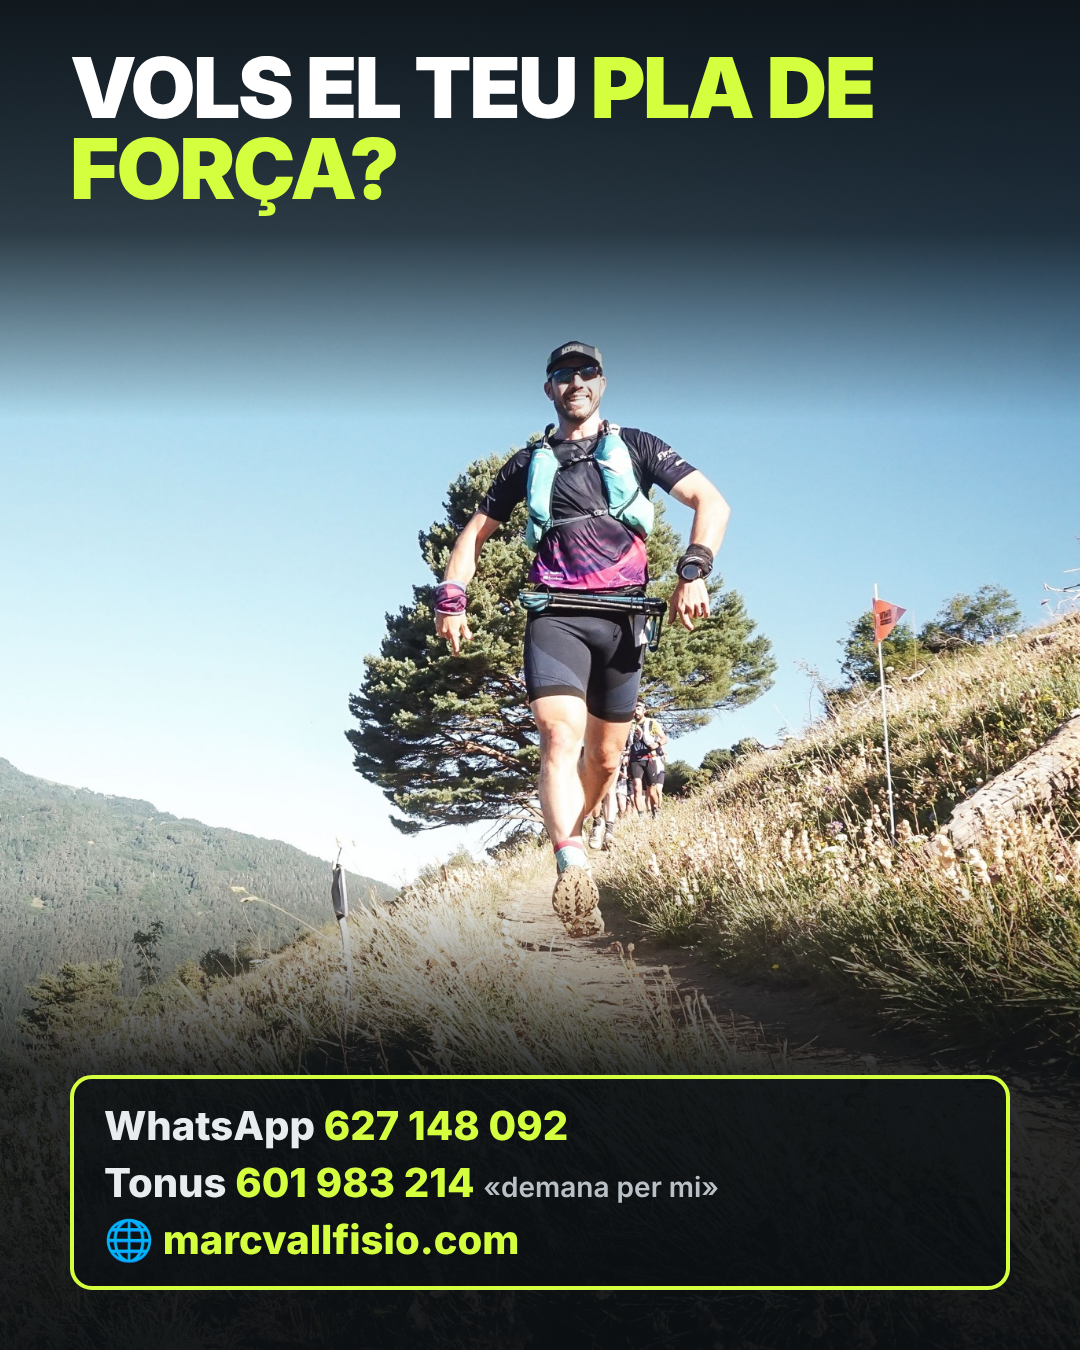
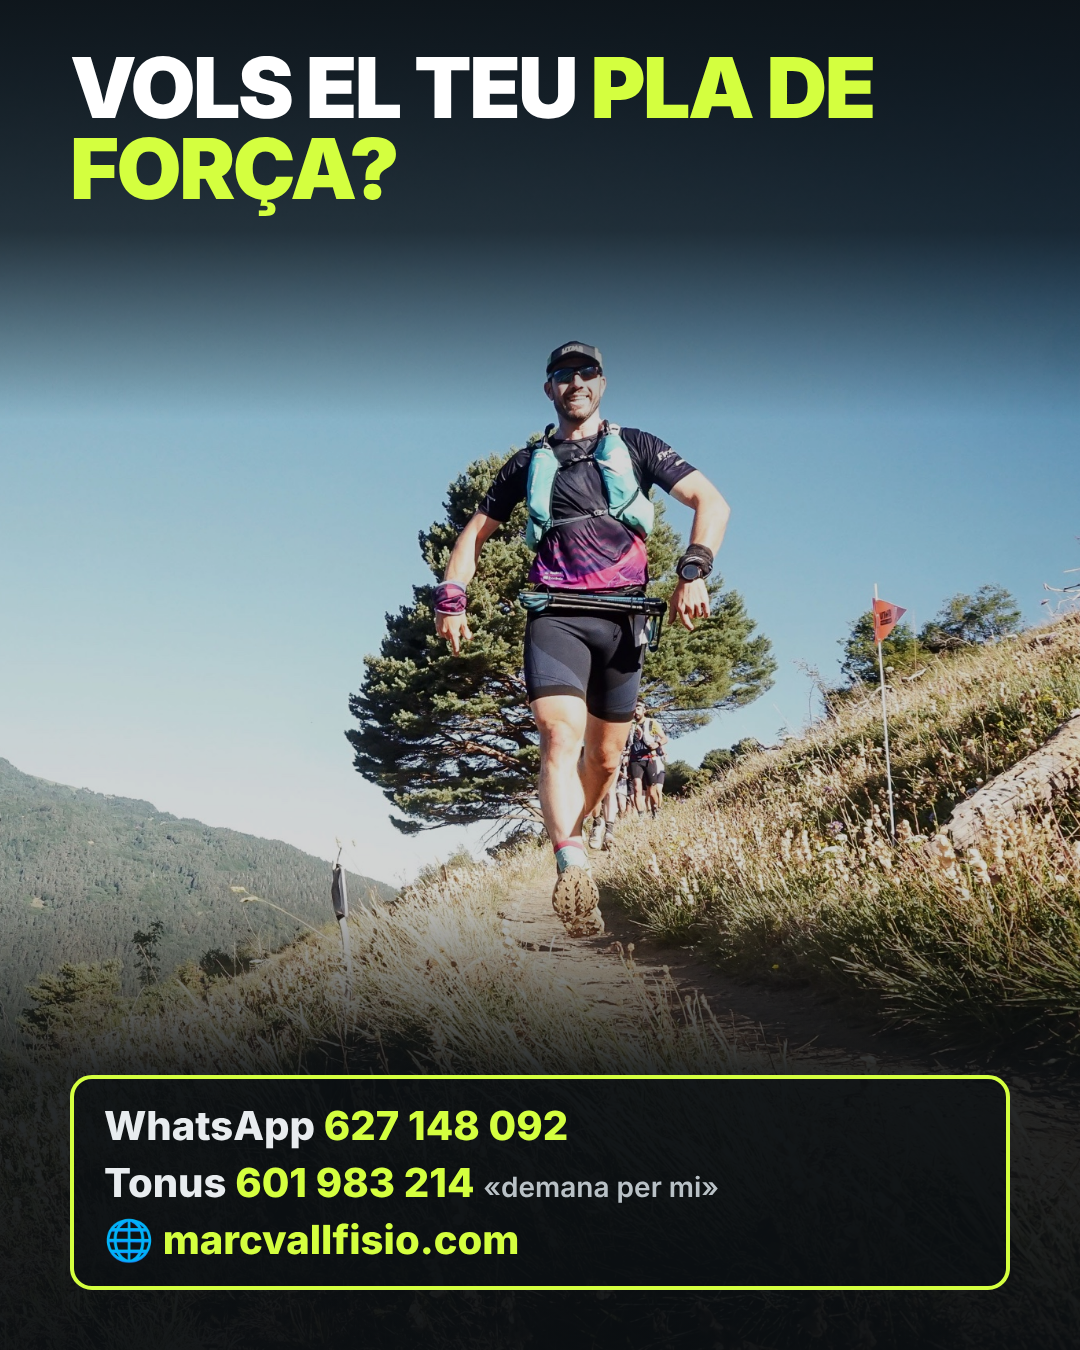
Força: foto running menys brillant
Claude-Session: https://claude.ai/code/session_0129rqGdsRmN9Z9aLzGCda8A

diff --git a/media/publicacions/forca_corredors/gen.py b/media/publicacions/forca_corredors/gen.py
@@ -92,7 +92,7 @@ S[7] = f"""<div class="s">{pg(7)}<div class="k">Sense vendre fum</div>
 {card('[5] Ramos-Campo DJ <i>JSCR</i> 2025 · [6] Leppänen M <i>BJSM</i> 2024 · [7] Taddei UT <i>AJSM</i> 2020 · [8] Toresdahl BG <i>Sports Health</i> 2020')}</div>"""
 
 S[8] = f"""<div class="s" style="padding:0;background:#0B0F12">
-<img src="{(F/'trail_utmb_vallaran_2026_horitzontal.jpg').as_uri()}" style="position:absolute;top:0;left:-800px;height:1350px">
+<img src="{(F/'trail_utmb_vallaran_2026_horitzontal.jpg').as_uri()}" style="position:absolute;top:0;left:-800px;height:1350px;filter:brightness(.8) contrast(1.1) saturate(1.08)">
 <div style="position:absolute;left:0;right:0;top:0;height:420px;background:linear-gradient(180deg,rgba(11,15,18,.92) 0%,rgba(11,15,18,.75) 55%,rgba(11,15,18,0) 100%)"></div>
 <div style="position:absolute;left:0;right:0;bottom:0;height:470px;background:linear-gradient(0deg,rgba(11,15,18,.95) 0%,rgba(11,15,18,.85) 60%,rgba(11,15,18,0) 100%)"></div>
 <div style="position:absolute;top:48px;left:70px;right:70px;font-weight:900;font-size:84px;line-height:.96;letter-spacing:-2.5px;text-transform:uppercase;color:#fff">Vols el teu <span style="color:#D4FF3F">pla de força?</span></div>
